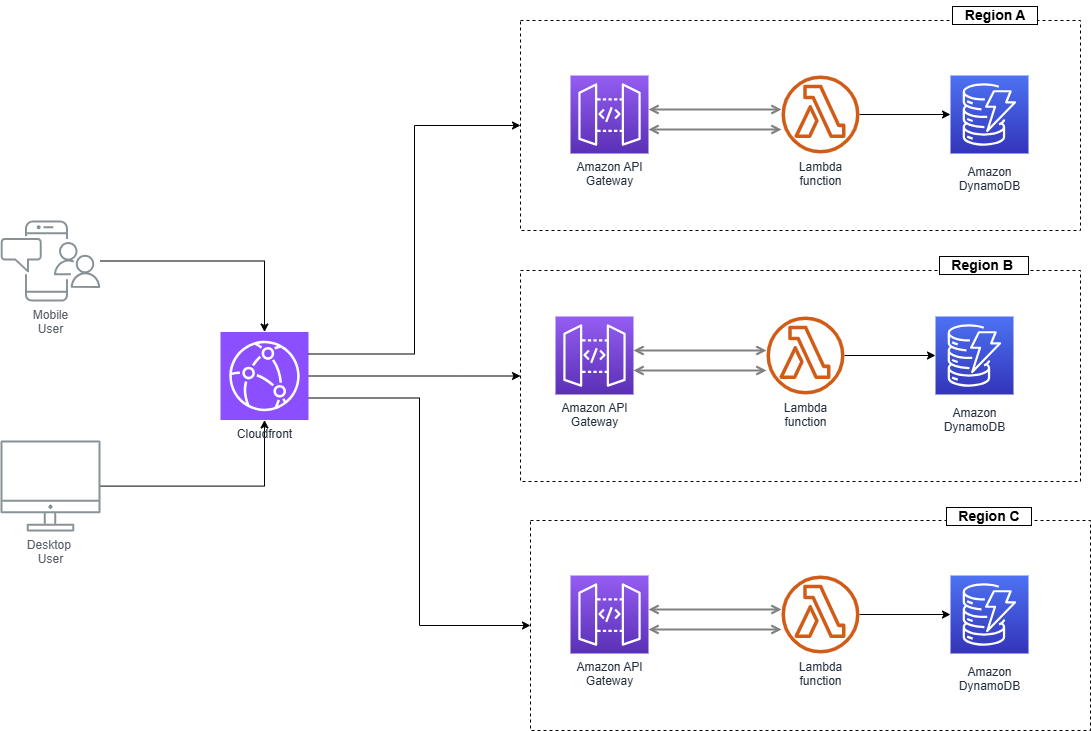
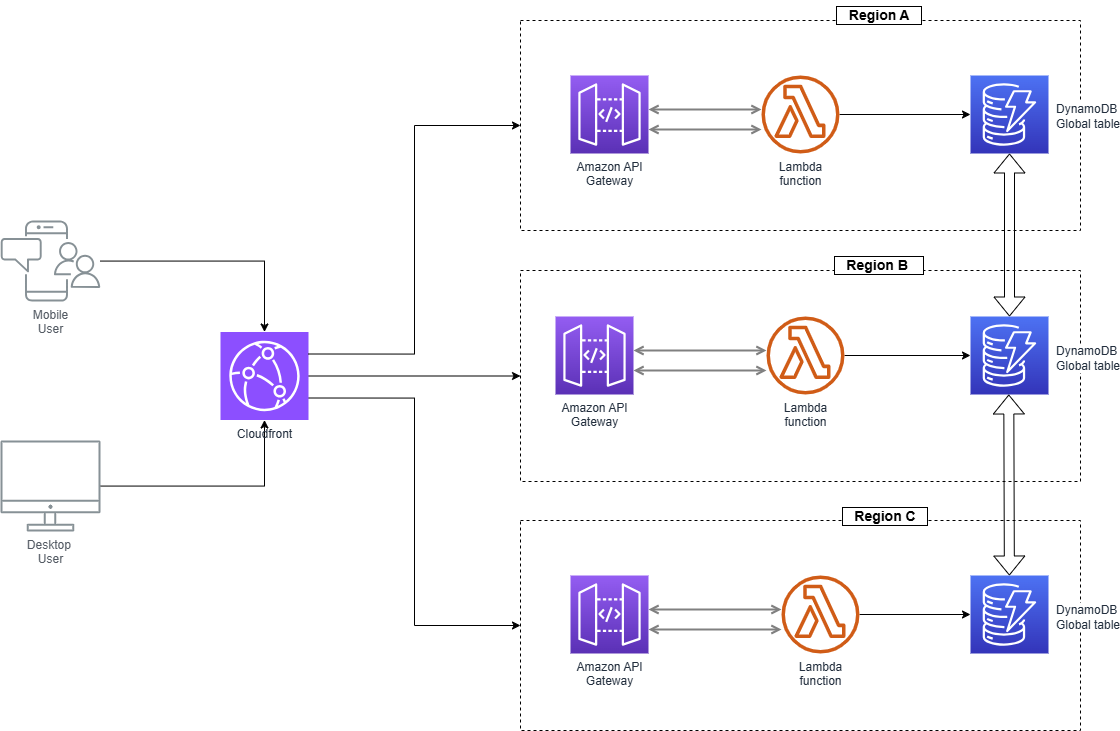
encode url en GET+DynamoDB global table

diff --git a/frontend/src/ShortUrlRedirect.js b/frontend/src/ShortUrlRedirect.js
@@ -11,14 +11,11 @@ import { LoadingOutlined } from '@ant-design/icons';
 const ShortUrlRedirect = () => {
     //
     const [searching,setSearching] = useState(true);
-    const [url2redirect,setUrl2redirect] = useState("");
     const {shortUrl} = useParams();
     //
     useEffect(() => {
-        console.log("...useEffect:shortUrl: ",shortUrl,";");
         fetchShortUrlInfo(shortUrl)
             .then((data)=>{
-                //setUrl2redirect(data.longUrl);
                 return apiUpdateCounter(data.longUrl) ;
             })
             .then((resp)=>{
@@ -41,7 +38,7 @@ const ShortUrlRedirect = () => {
                     <br/><br/><br/><br/><br/><br/><br/><br/>
                     <Row>
                         <Col span={6}></Col>
-                        <Col span={8}><h1 style={{fontSize:'64px'}}>{url2redirect}</h1></Col>
+                        <Col span={8}><h1 style={{fontSize:'64px'}}>Redirecting...</h1></Col>
                     </Row>
                 </>
         }

diff --git a/frontend/src/api/index.js b/frontend/src/api/index.js
@@ -9,7 +9,9 @@ const HEADERS = {
 export const fetchUrlInfo = (longUrl) => {
     return new Promise((resOk,resErr)=>{
         try {
-            const url = process.env.REACT_APP_API_SHORTENER+"/"+longUrl ;
+            //
+            const url = process.env.REACT_APP_API_SHORTENER+"/"+encodeURIComponent(longUrl) ;
+            //
             fetch(url)
                 .then((resp)=>{
                     if ( resp.status>100 & resp.status<400 ){

diff --git a/frontend/src/index.js b/frontend/src/index.js
@@ -10,7 +10,7 @@ if (module.hot) {module.hot.accept();}
 
 const root = ReactDOM.createRoot(document.getElementById('root'));
 document.title="URL Shortener";
-//
+
 root.render(
         <Router>
             <Routes>
@@ -19,5 +19,5 @@ root.render(
             </Routes>
         </Router>
 );
-//
+
 reportWebVitals();

diff --git a/README.md b/README.md
@@ -47,7 +47,9 @@ Advantages for this requirement:
 
 Dynamodb provides a serverless solution that speed up the development and scale of the solution. As a JSON documento databases, It provides easy integration to Javascript (node.js) applications.
 
-Additionally, AWS have several features that can improve the capacity, such as Amazon DynamoDB Accelerator (DAX).
+Additionally, AWS have several features that can improve the capacity, such as:
+- Global tables in order to have the same data in several Regions
+- Amazon DynamoDB Accelerator (DAX)
 
 # Frontend
 
